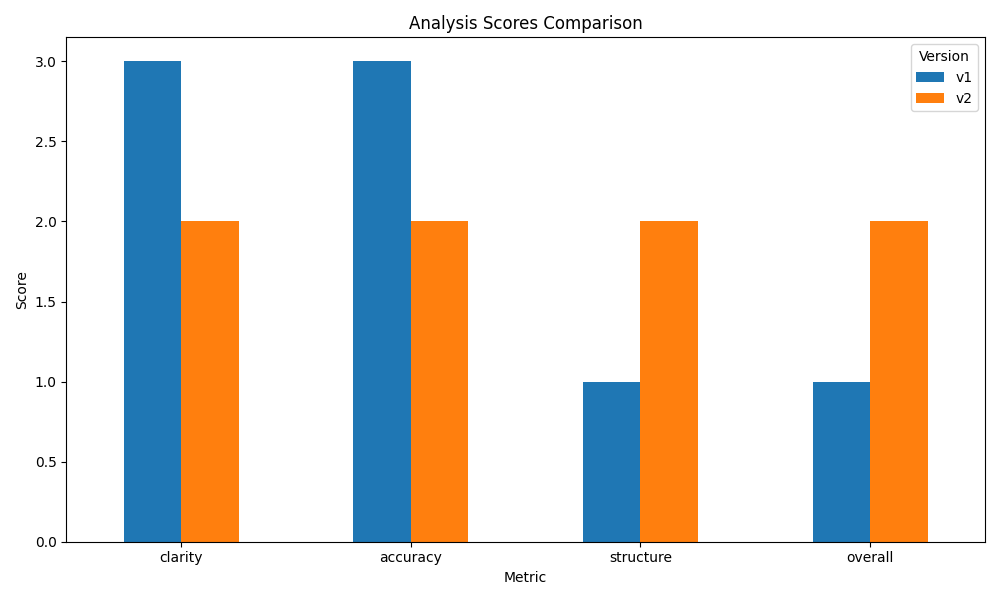
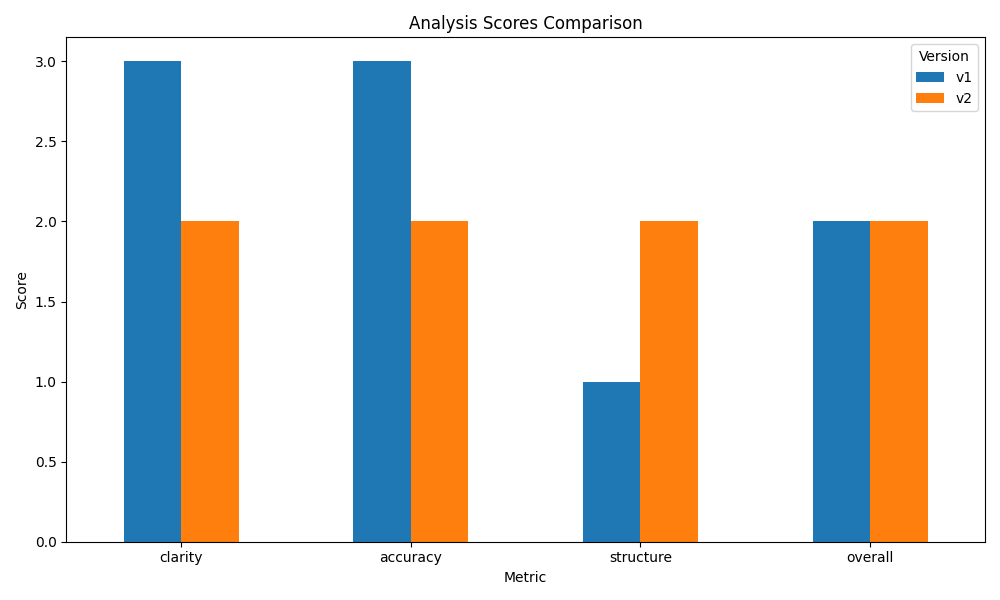
feature/improvment of comparison results v2

Changed region(s): [[0.806, 0.36, 0.868, 0.66]]

diff --git a/src/modules/comparsion/comparson_module_V2.py b/src/modules/comparsion/comparson_module_V2.py
@@ -164,9 +164,11 @@ def run_pipeline() -> None:
     3) Run comparison for recommendation
     """
     # Paths
-    base_dir = Path(
-        r"D:\Work Data\NLP Monitorship\Project\Team4-MarketingExpert\data\outputs\run_20260414_004119\campaign_1"
-    )
+    from pathlib import Path
+
+    PROJECT_ROOT = Path(__file__).resolve().parents[3]   # adjust level if needed
+
+    base_dir = PROJECT_ROOT / "data" / "outputs" / "run_20260414_004119" / "campaign_1"
 
     analysis_json = base_dir / "analysis_evaluation_results.json"
     recommendation_json = base_dir / "recommendation_evaluation_results.json"
